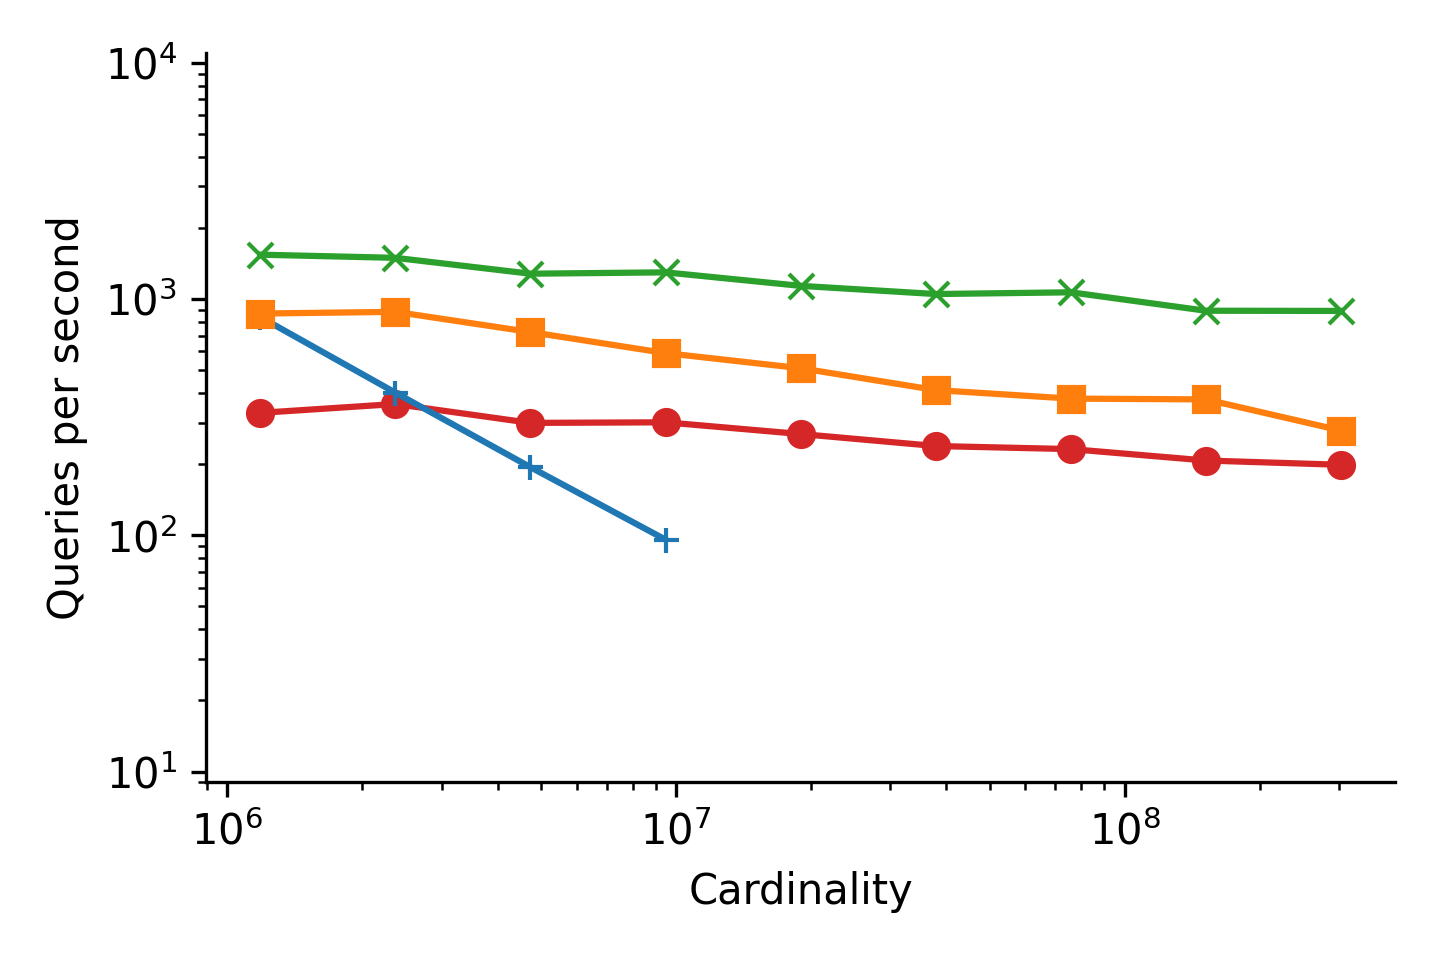
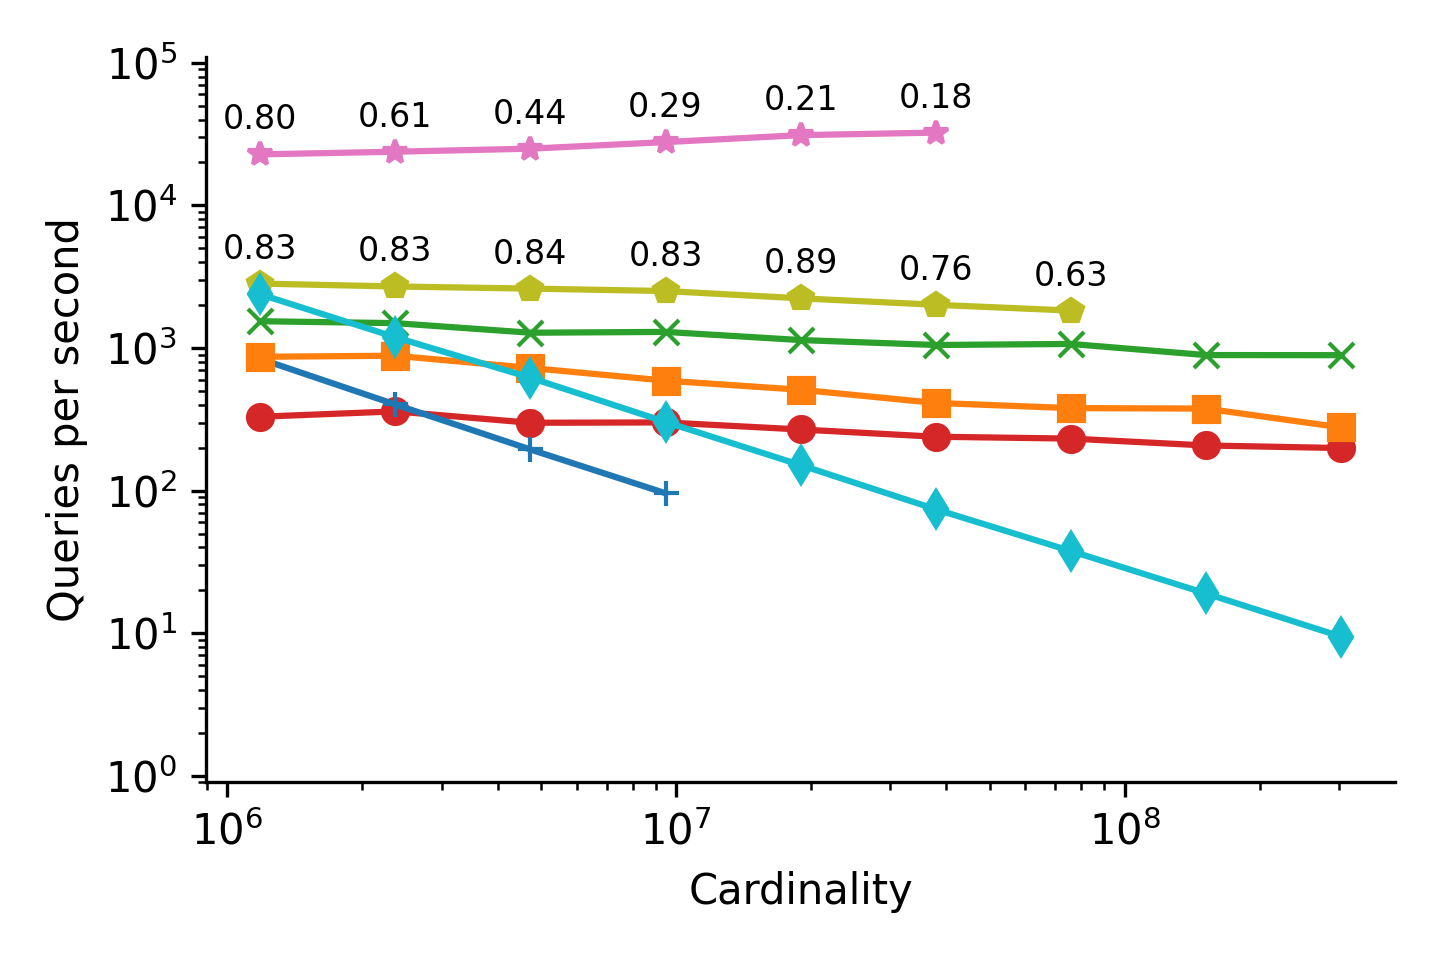
added most of the plots

diff --git a/sections/4-results.tex b/sections/4-results.tex
@@ -81,7 +81,7 @@ The median LFD follows a similar pattern of peaks and troughs, fluctuating betwe
         \label{fig:results:silva-lfd}
     \end{subfigure}%
     \begin{subfigure}[b]{0.47\textwidth}
-        \includegraphics[width=0.95\textwidth]{images/lfd/silva-SSU-Ref.png}\\
+        \includegraphics[width=0.95\textwidth]{images/lfd/radio-ml.png}\\
         \subcaption{RadioML}
         \label{fig:results:radioml-lfd}
     \end{subfigure}%
@@ -175,14 +175,13 @@ In particular, throughput of CAKES's algorithms is identical within three signif
         \label{fig:results:silva-scaling}
     \end{subfigure}%
     \begin{subfigure}[b]{0.47\textwidth}
-        \includegraphics[width=0.95\textwidth]{plots/silva-SSU-Ref_PermutedBall_10_throughput.png}
+        \includegraphics[width=0.95\textwidth]{plots/radio-ml_Ball_10_throughput.png}
         \subcaption{RadioML for $k=10$ at SnR = 10dB.}
         \label{fig:results:radioml-scaling}
     \end{subfigure}%
     \caption{Throughput across six datasets, including a randomly-generated dataset.
     In each plot, the horizontal axis represents increasing cardinality of the dataset, while the vertical axis represents the throughput in queries per second (higher is better).
-    Note that for RadioML, all three algorithms performed nearly identically, so distinct lines are not visible.
-    For some algorithms, we were not able to take measurements for each cardinality because the index-building required more RAM than was available (i.e.,\,more then 512GB).
+    For HNSW and ANNOY, we were not able to take measurements for each cardinality because the index-building required more RAM than was available (i.e.,\,more then 512GB).
     For linear search with CAKES, we only report the throughput for a few of the initial multipliers because the trend is clear.}
     \label{fig:results:scaling-plots}
 \end{figure}

diff --git a/sections/3-datasets.tex b/sections/3-datasets.tex
@@ -65,7 +65,7 @@ The RadioML dataset contains samples of synthetically generated signal captures 
 Specifically, it comprises 24 modulation modes at 26 different signal-to-noise ratio (SNR) levels ranging from -20 dB to 30 dB, with 4,096 samples at each combination of modulation mode and SNR level.
 Thus, it contains $24 \cdot 26 \cdot 4096 = 2,555,504$ samples in total.
 Each sample is a 1,024-dimensional complex-valued vector, representing a signal capture (a time-series of complex-valued numbers).
-We used a subset of this dataset, containing 97,920 samples at 10dB SNR and used the other 8,576 samples at 10dB SNR as a hold-out set of queries.
+We used a subset of this dataset, containing $97,304$ samples at 10dB SNR and used another $1,000$ samples at the same SNR as a hold-out set of queries.
 We use Dynamic Time Warping~\cite{muller2007dynamic} as the distance function for this dataset.
 
 
